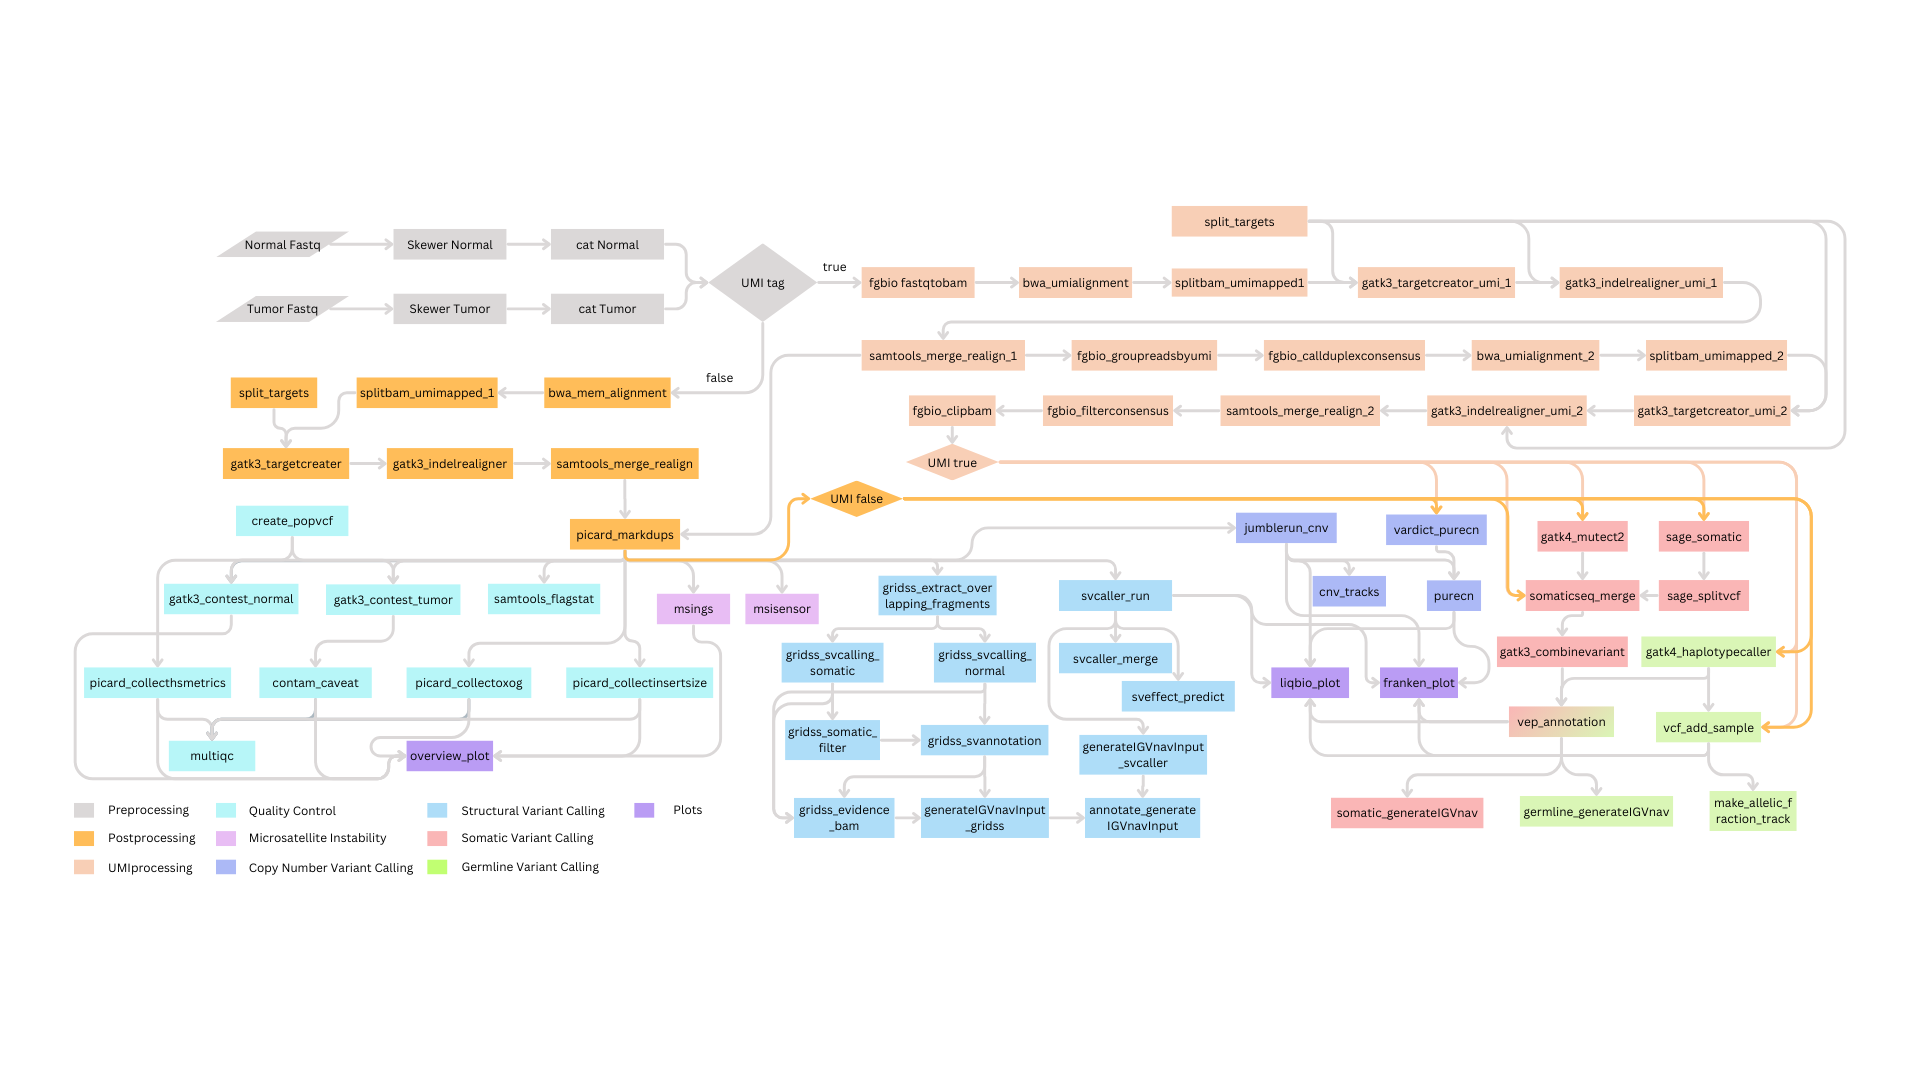
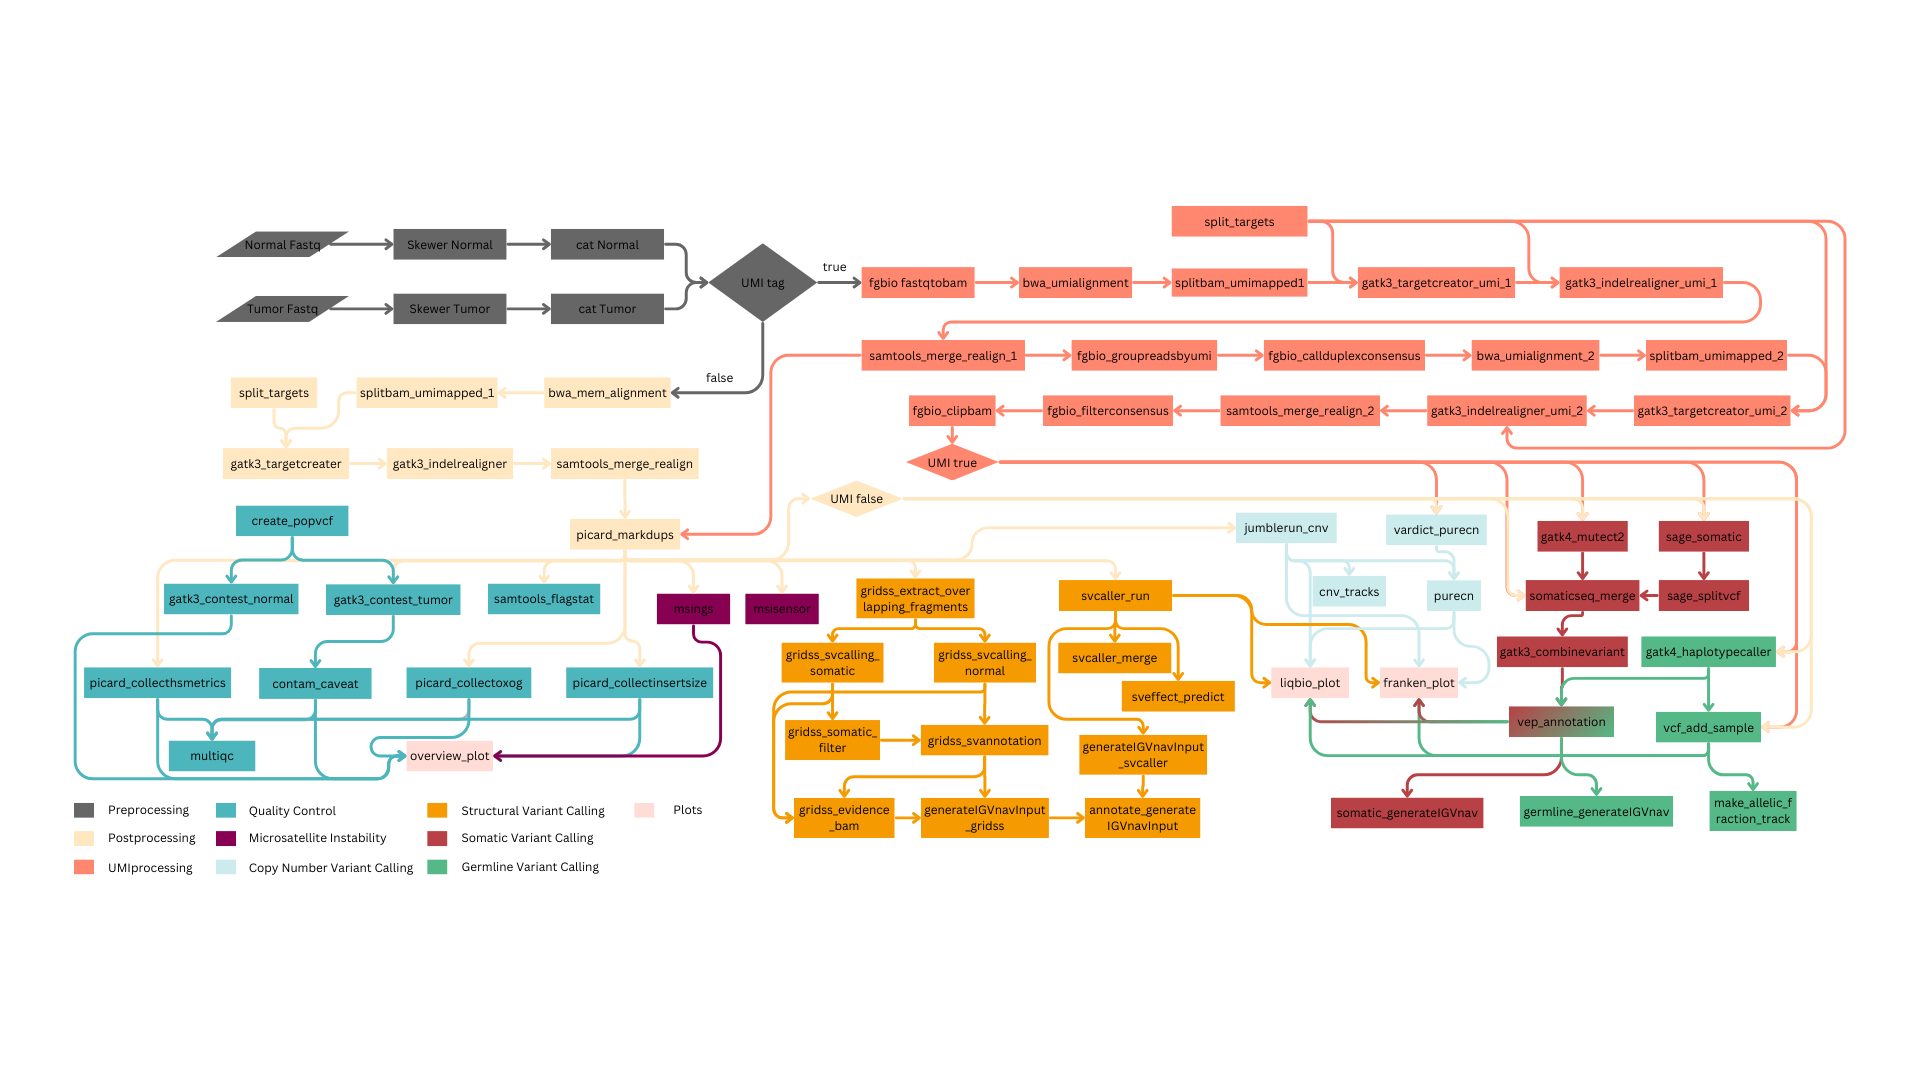
Updated Documentation

Changed region(s): [[0.0312, 0.1833, 0.9688, 0.825], [0.3125, 0.7333, 0.3438, 0.7639]]

diff --git a/docs/autoseq_pipeline.md b/docs/autoseq_pipeline.md
@@ -15,10 +15,12 @@ This pipeline can be broadly classified into 7 major steps. They are
 **Pipeline workflow**
 
 ![Autoseq workflow](img/autoseq_overall_diagram.png)
+**Figure 1:** This diagram shows the overall workflow for autoseq pipeline. Here different type of processes are highlighed with different colors. The preprocessing, UMI processing, microsatellite instability, quality check, somatic variant calling, germline variant calling, copy number analysis, structural variant calling and plots are mentioned in grey, orange, plum, blue, dark orange, green, light blue, dark yellow and light orange respectively. 
 
 **Pipeline Detailed Workflow**
 
 ![Autoseq Complete Workflow](img/autoseq_detailed_workflow.png)
+**Figure 2:** Complete DAG diagram for the autoseq pipeline is shown in this diagram. Here, the postprocessing step is highlighted in light yellow. All other color code is similar to the above diagram.
 
 **Preprocessing and UMI Processing**
 

diff --git a/docs/quick_start.md b/docs/quick_start.md
@@ -21,8 +21,35 @@
 ```
 * python =3.8.12
 * Singularity > 3.0 
-* conda (package manager)
+* conda
+    * skewer=0.2.2
+    * bwa=0.7.17
+    * samblaster=0.1.26
+    * samtools=1.11
+    * picard=2.23
+    * fgbio=1.3.0
+    * bedtools=2.30.0
+    * pybedtools=0.8.1
+    * fastqc=0.11.9
+    * gatk4=4.1.2
+    * bcftools=1.8
+    * vcflib=1.0
+    * vt
+    * varscan=2.4.4
+    * svaba=1.1.0
+    * vawk=0.0.2
+    * bioconductor-dnacopy
+    * pip:
+        * pysam
+        * pyvcf==0.6.8
+        * cnvkit==0.9.8
+        * multiqc==1.10
+        * wheel
+        * pulp==2.7.0
+        * setuptools<58
 ```
+
+**Note:** Only the above conda packages are required in the base environment. In order to make the execution of pipeline easy, our developer has containerized all the remaining dependencies as singularity images.
 
 **Optional Dependencies:**
 

diff --git a/docs/index.md b/docs/index.md
@@ -26,6 +26,13 @@ Latest Version | [v3.3.1](https://github.com/ClinSeq/autoseq-snakemake/releases/
 
 -----------------------------------------------
 
+## Authors
+* Sarath Kumar Murugan
+* Venkatesh Chellappa Patel
+* Karthick Maniram
+* Rebecka Bergstrom
+* Markus Mayrhofer
+
 ## GO TO
 * [Quick Start](quick_start.md)
     * [Installation](quick_start.md/#1-installation)
